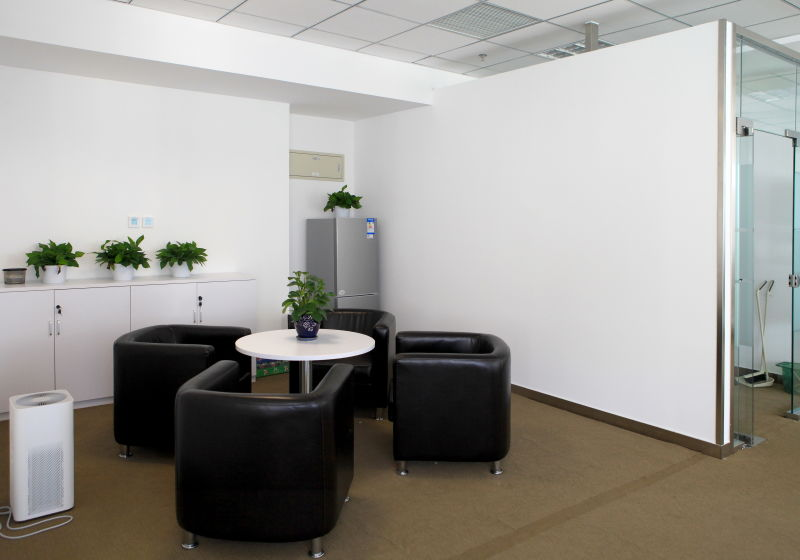
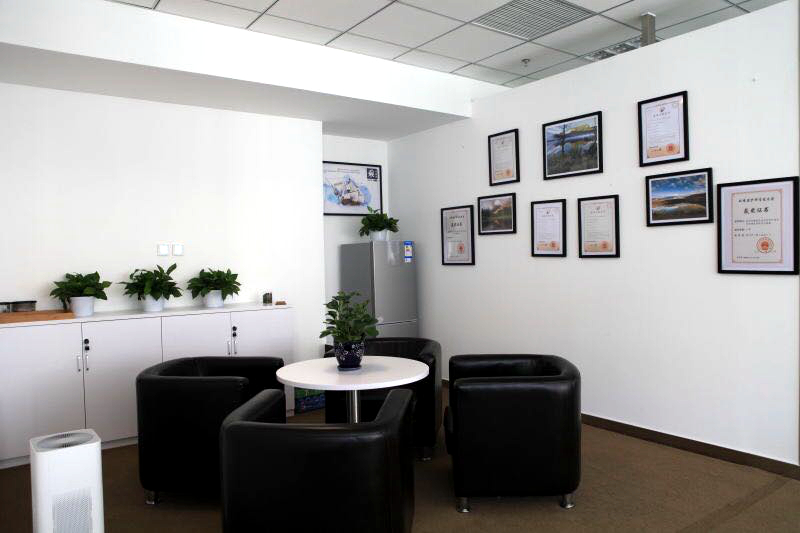
团队建设图片替换

diff --git a/web/team.html b/web/team.html
@@ -92,33 +92,7 @@
 				        </div>
 				    </div>
 			 	</div>
-			 	<div class="row">
-			 		<div class="col-sm-6 col-md-4">
-				        <div class="thumbnail">
-				            <img src="./images/team4.jpg">
-				            <h6 class="team_media_desc">公司环境</h6>
-				        </div>
-				    </div>
-				    <div class="col-sm-6 col-md-4">
-				        <div class="thumbnail">
-				            <img src="./images/team5.jpg">
-				            <h6 class="team_media_desc">公司环境</h6>
-				        </div>
-				    </div>
-				    <div class="col-sm-6 col-md-4">
-				        <div class="thumbnail">
-				            <img src="./images/team6.jpg">
-				            <h6 class="team_media_desc">公司环境</h6>
-				        </div>
-				    </div>
-			 	</div>
-			 	<div class="row">
-			 		<div class="col-sm-6 col-md-4">
-				        <div class="thumbnail">
-				            <img src="./images/team7.jpg">
-				            <h6 class="team_media_desc">公司召开技术研讨专题会议</h6>
-				        </div>
-				    </div>
+			 	<div class="row">		 		
 				    <div class="col-sm-6 col-md-4">
 				        <div class="thumbnail">
 				            <img src="./images/team8.jpg">
@@ -129,6 +103,12 @@
 				        <div class="thumbnail">
 				            <img src="./images/team9.jpg">
 				            <h6 class="team_media_desc">公司独立董事王浩院士与员工在一起</h6>
+				        </div>
+				    </div>
+					<div class="col-sm-6 col-md-4">
+				        <div class="thumbnail">
+				            <img src="./images/team7.jpg">
+				            <h6 class="team_media_desc">陕西省省长胡和平与公司总裁申彪博士</h6>
 				        </div>
 				    </div>
 			 	</div>

diff --git a/web/index.html b/web/index.html
@@ -100,7 +100,7 @@
 						<img src="./images/banner1.png">
 						<h2 class="title">公司简介</h2>
 						<p class="desc text-indent">
-							北京环域生态环保技术有限公司（以下简称环域生态）作为中国环境科学研究院水环境科学家研发技术成果的转化平台，致力于用技术集成的力量，变革中国水环境。公司从成立伊始到不断发展，得到了中国环保部相关司局、中国环境科学研究院、中国水利水电科学研究院、北极光创投基金等国家部门及社会机构的大力支持。
+							北京环域生态环保技术有限公司，作为中国环境科学研究院水环境科学家研发技术成果的转化平台，致力于用技术集成的力量，变革中国水环境。
 						</p>
 					</a>
 					<a class="item col-md-4" href="solutions.html">

diff --git a/web/cto.html b/web/cto.html
@@ -134,7 +134,7 @@
 					<div class="col-sm-6 col-md-3">
 			        <div class="thumbnail">
 			            <img src="./images/cto_honor9.jpg">
-			            <h6 class="team_media_desc">环境保护科学技术奖</h6>
+			            <h6 class="team_media_desc">发明专利证书</h6>
 			        </div>
 					</div>
 					<div class="col-sm-6 col-md-6">
